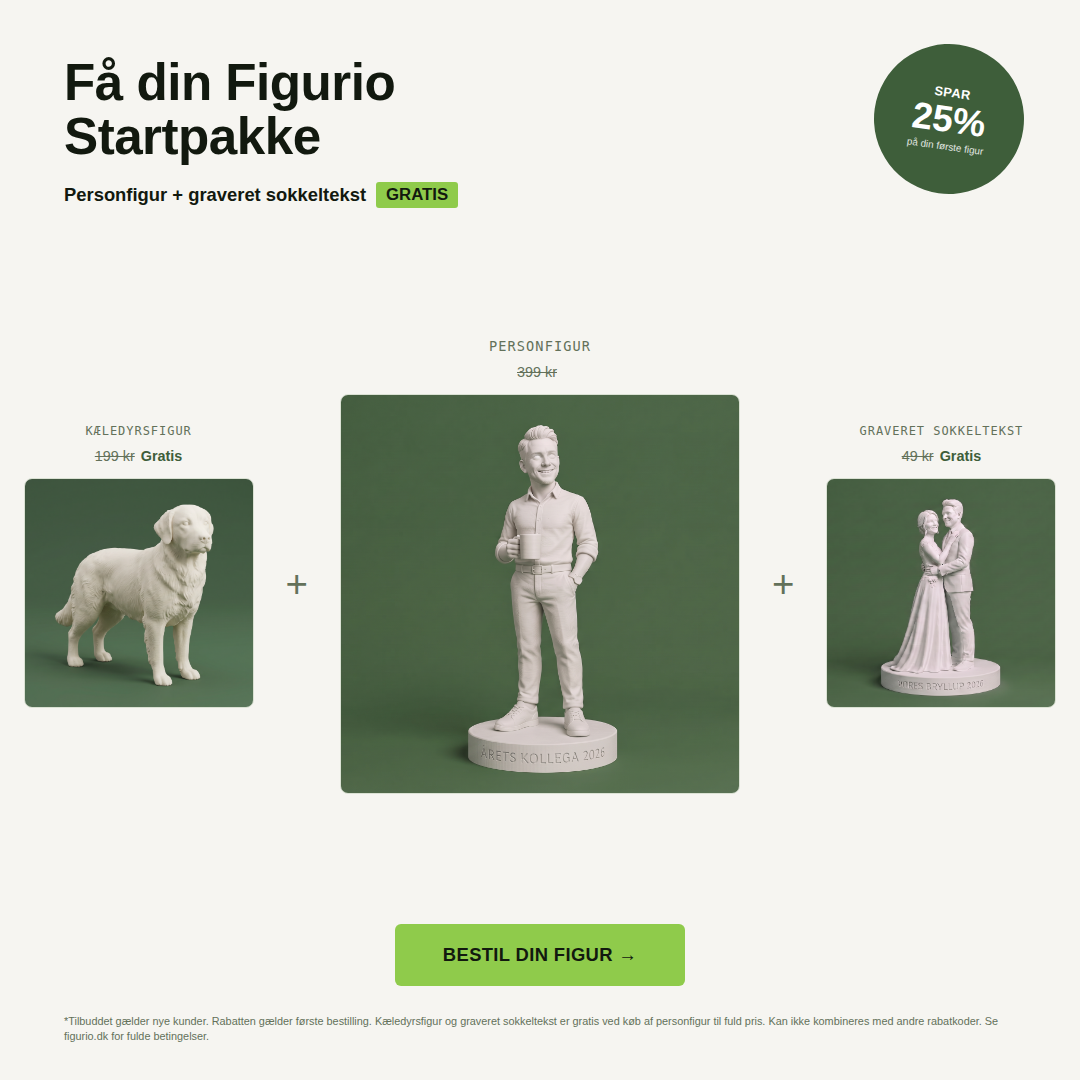
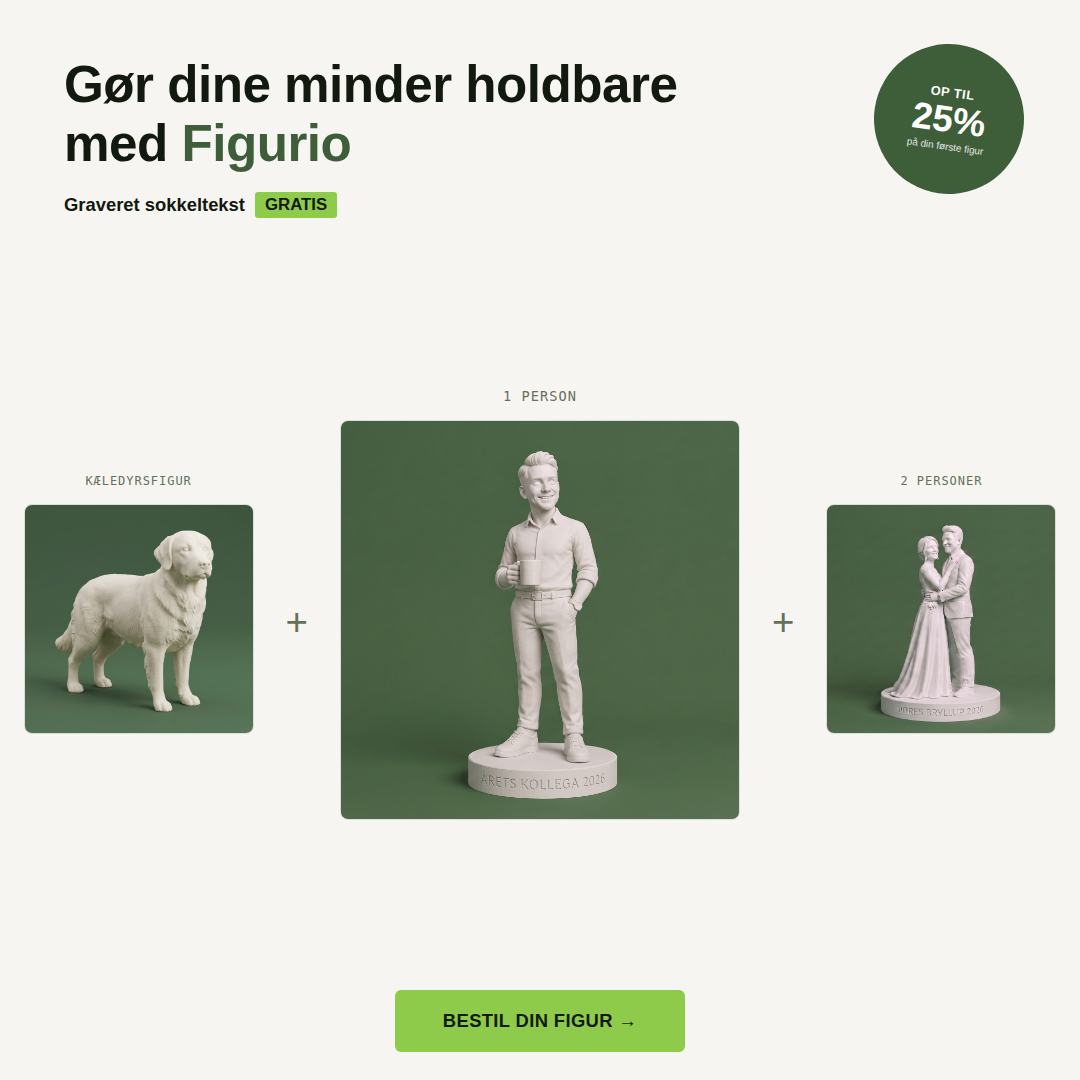
Research figurio.dk og opdater annonce med rigtige produktnavne
Kontekst: bekræfter produktnavne, priser og forsidetekst direkte fra
figurio.dk i context/products-services.md.

Annonce: fjerner småprint og pris pr. vare, ændrer badge til "Op til
25%", titler ændret til de tre rigtige muligheder fra hjemmesiden
(Kæledyrsfigur / 1 person / 2 personer), ny overskrift "Gør dine
minder holdbare med Figurio".

Claude-Session: https://claude.ai/code/session_013kVZJisYsSPqqdkNSZT5ro

diff --git a/assets/templates/annonce-tilbud.html b/assets/templates/annonce-tilbud.html
@@ -38,9 +38,12 @@
   .headline h1{
     font-size:3.2rem;
     font-weight:800;
-    line-height:1.05;
+    line-height:1.15;
     letter-spacing:-0.01em;
-    max-width:640px;
+    max-width:700px;
+  }
+  .logo-mark{
+    color:var(--deep-sage);
   }
   .subline{
     margin-top:18px;
@@ -118,22 +121,8 @@
     letter-spacing:.08em;
     font-size:.75rem;
     color:var(--mono-tag);
-    margin-bottom:10px;
+    margin-bottom:16px;
   }
-  .item .price{
-    font-size:.9rem;
-    margin-bottom:14px;
-  }
-  .price .old{
-    text-decoration:line-through;
-    color:var(--mono-tag);
-    margin-right:6px;
-  }
-  .price .free{
-    color:var(--deep-sage);
-    font-weight:700;
-  }
-
   .item img{
     border-radius:8px;
     border:1px solid var(--border);
@@ -184,27 +173,19 @@
     gap:10px;
   }
 
-  /* ---- Legal ---- */
-  .legal{
-    flex:none;
-    padding:0 64px 36px;
-    font-size:.68rem;
-    color:var(--mono-tag);
-    line-height:1.4;
-  }
 </style>
 </head>
 <body>
 
   <div class="headline">
-    <h1>Få din Figurio<br>Startpakke</h1>
+    <h1>Gør dine minder holdbare med <span class="logo-mark">Figurio</span></h1>
     <div class="subline">
-      Personfigur + graveret sokkeltekst <span class="free-tag">GRATIS</span>
+      Graveret sokkeltekst <span class="free-tag">GRATIS</span>
     </div>
   </div>
 
   <div class="save-badge">
-    <div class="label">Spar</div>
+    <div class="label">Op til</div>
     <div class="pct">25%</div>
     <div class="fine">på din første figur</div>
   </div>
@@ -212,35 +193,26 @@
   <div class="bundle">
     <div class="item side">
       <div class="item-label">Kæledyrsfigur</div>
-      <div class="price"><span class="old">199 kr</span><span class="free">Gratis</span></div>
       <img src="../product-shots/kaeledyrsfigur-studioshot-01.png" alt="Kæledyrsfigur" />
     </div>
 
     <div class="plus-sign">+</div>
 
     <div class="item main">
-      <div class="item-label">Personfigur</div>
-      <div class="price"><span class="old">399 kr</span></div>
-      <img src="../product-shots/personfigur-studioshot-01.png" alt="Personfigur" />
+      <div class="item-label">1 person</div>
+      <img src="../product-shots/personfigur-studioshot-01.png" alt="Personfigur, 1 person" />
     </div>
 
     <div class="plus-sign">+</div>
 
     <div class="item side">
-      <div class="item-label">Graveret sokkeltekst</div>
-      <div class="price"><span class="old">49 kr</span><span class="free">Gratis</span></div>
-      <img src="../product-shots/parfigur-bryllup-studioshot-01.png" alt="Parfigur med graveret sokkeltekst" />
+      <div class="item-label">2 personer</div>
+      <img src="../product-shots/parfigur-bryllup-studioshot-01.png" alt="Figur med 2 personer" />
     </div>
   </div>
 
   <div class="cta-wrap">
     <div class="cta">Bestil din figur →</div>
-  </div>
-
-  <div class="legal">
-    *Tilbuddet gælder nye kunder. Rabatten gælder første bestilling. Kæledyrsfigur og
-    graveret sokkeltekst er gratis ved køb af personfigur til fuld pris. Kan ikke
-    kombineres med andre rabatkoder. Se figurio.dk for fulde betingelser.
   </div>
 
 </body>

diff --git a/context/products-services.md b/context/products-services.md
@@ -2,20 +2,27 @@
 
 ## Kerneprodukt
 
-Personlige 3D-printede figurer lavet ud fra kundens egne fotos, bestilt via app.figurio.dk. To produktlinjer:
+Personlige 3D-printede figurer lavet ud fra kundens egne fotos, bestilt via app.figurio.dk. Bekræftet direkte fra figurio.dk (research udført 2026-09-08) — to produktlinjer, tre muligheder:
 
-**Personfigur**
-- 1 person: 399 kr
-- 2 personer på fælles sokkel: 499 kr
+**Personer** (hovedkategori på hjemmesiden)
+- "1 person" — 399 kr
+- "2 personer" — 499 kr, står på én fælles sokkel
 - Ca. 16 cm høj
 - Sokkel kan personaliseres med tekst (understøtter æ/ø/å)
 
 **Kæledyrsfigur**
-- Small (op til 7 cm): 99 kr
-- Medium (op til 12 cm): 199 kr
-- Large (op til 16 cm): 349 kr
+- "Lille" (op til 7 cm) — 99 kr
+- "Mellem" (op til 12 cm) — 199 kr
+- "Stor" (op til 16 cm) — 349 kr
+- Selvstående figurer (ingen sokkel/platform)
 
 Materiale: hvid PLA-plast (3D-print).
+
+## Tagline / hjemmeside-copy (bekræftet fra figurio.dk)
+
+- Overskrift: "DIN PERSON. DIN FIGUR"
+- Underoverskrift: "Upload et foto, og vi laver en personlig 3D-printet figur, der ligner dig"
+- Aktuel kampagne på forsiden: "FÅ OP TIL 25% TILBUD NU!"
 
 ## Produktionsflow
 
@@ -30,7 +37,7 @@ Materiale: hvid PLA-plast (3D-print).
 
 ## Prisstruktur
 
-Se priser under "Kerneprodukt" ovenfor. Løbende kampagne set på hjemmesiden: op til 25% rabat.
+Se priser under "Kerneprodukt" ovenfor. Løbende kampagne set på hjemmesiden: "FÅ OP TIL 25% TILBUD NU!".
 
 > TODO — betalingsmetoder, evt. faste rabatkoder/perioder.
 
